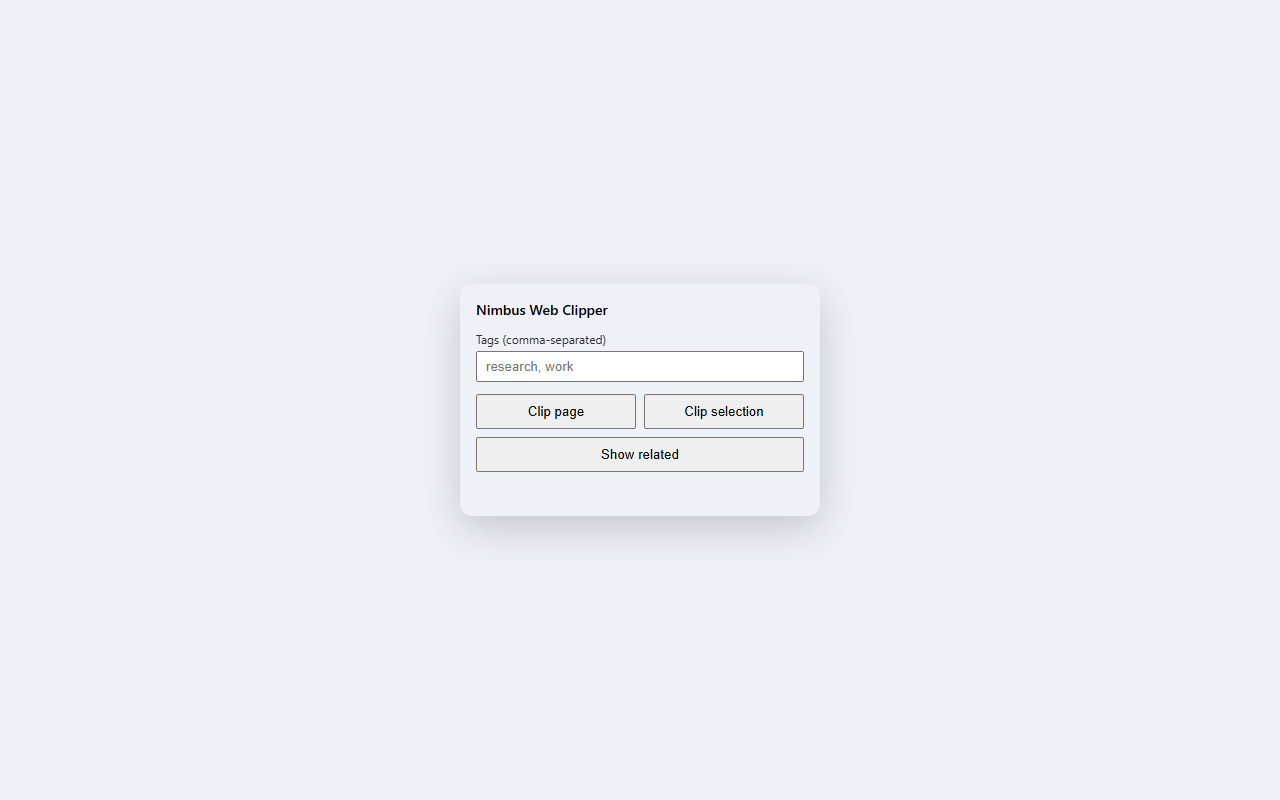
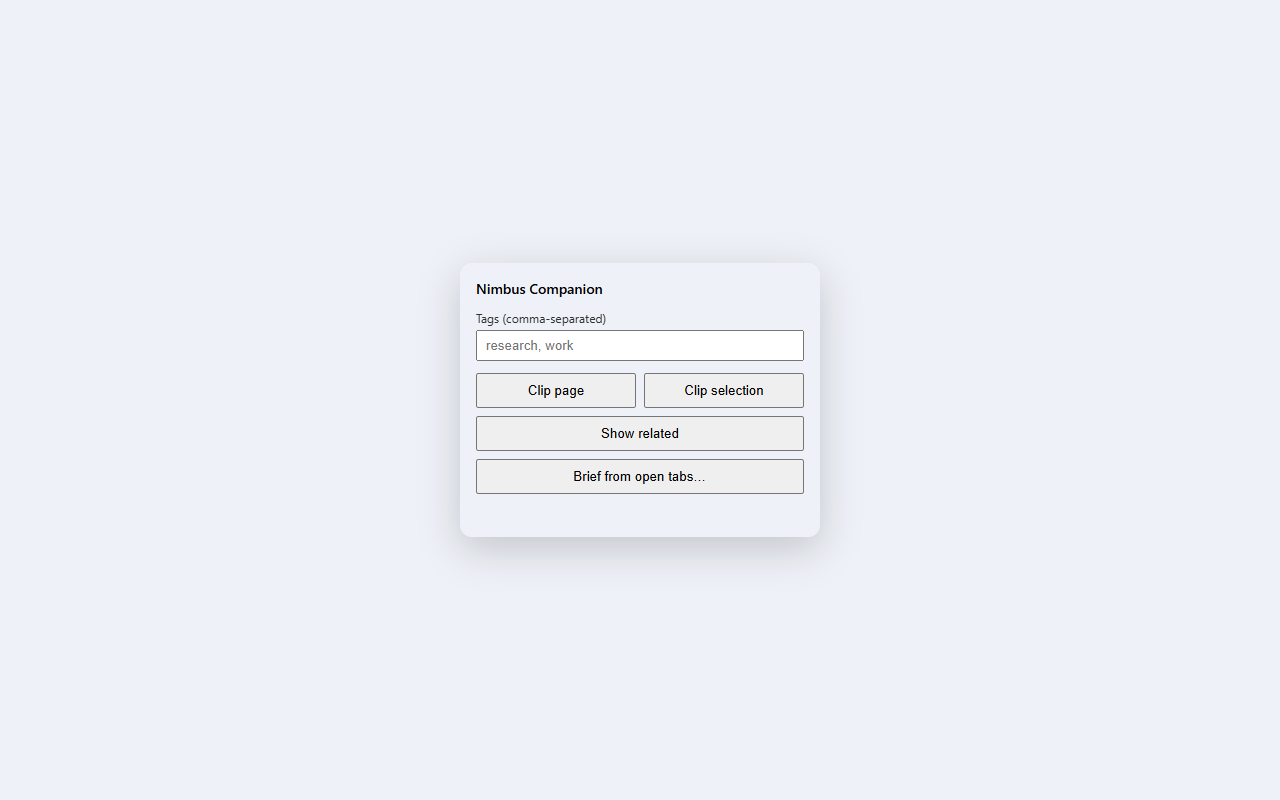
chore(brand): rename the extension to Nimbus Companion
"Nimbus Web Clipper" collided in every store search with Nimbus Web Inc's
unrelated "Web Clipper (Nimbus)" (~50k users). The new name keeps the tie to
the Nimbus gateway, leaves the clipper category, and matches what C1-C7 made
of the extension: clipping is one capability among several.

The rename is the manifest `name` + description, the popup/options headings,
the store listing + privacy policy, workflow/release titles, docs prose, and
regenerated promo tiles and store screenshots.

Deliberately unchanged: the Firefox gecko id (changing it orphans installs),
the Chrome item id, the repo slug, package name, Sonar key and zip names, and
"clip" as a verb. ROADMAP.md records the decision and the alternatives.

Changed region(s): [[0.375, 0.3438, 0.625, 0.5312], [0.375, 0.5312, 0.625, 0.6562]]

diff --git a/src/manifest/manifest.ts b/src/manifest/manifest.ts
@@ -78,10 +78,10 @@ export interface WebClipperManifest {
 export function composeManifest(target: BrowserTarget, version: string): WebClipperManifest {
   const base = {
     manifest_version: 3 as const,
-    name: "Nimbus Web Clipper",
+    name: "Nimbus Companion",
     version,
     description:
-      "Clip articles and selections from the browser into your local-first Nimbus index.",
+      "Bring your local-first Nimbus index to the page you're on — clip it, ask about it, see what Nimbus already knows.",
     // Minimal, capability-scoped: storage holds the paired bearer token; activeTab +
     // scripting let the popup capture the current page on user action (no broad host
     // access); alarms wakes the SW to drain the offline retry queue; contextMenus

diff --git a/src/options/options.html b/src/options/options.html
@@ -3,12 +3,12 @@
   <head>
     <meta charset="utf-8" />
     <meta name="viewport" content="width=device-width, initial-scale=1" />
-    <title>Nimbus Web Clipper — Options</title>
+    <title>Nimbus Companion — Options</title>
     <link rel="stylesheet" href="options.css" />
   </head>
   <body>
     <main class="options">
-      <h1>Nimbus Web Clipper</h1>
+      <h1>Nimbus Companion</h1>
 
       <section id="stage-connect" class="stage">
         <h2><span class="stage__num">1</span> Connect</h2>

diff --git a/test/unit/manifest.test.ts b/test/unit/manifest.test.ts
@@ -6,7 +6,7 @@ describe("composeManifest", () => {
     for (const target of BROWSER_TARGETS) {
       const m = composeManifest(target, "1.2.3");
       expect(m.manifest_version).toBe(3);
-      expect(m.name).toBe("Nimbus Web Clipper");
+      expect(m.name).toBe("Nimbus Companion");
       expect(m.version).toBe("1.2.3");
       // Loopback only — the extension never talks to a remote origin (I6).
       expect(m.host_permissions).toEqual(["http://127.0.0.1/*", "http://localhost/*"]);

diff --git a/scripts/gen-promo.ts b/scripts/gen-promo.ts
@@ -88,7 +88,7 @@ function html(s: TileSpec): string {
     <div class="tile">
       <div class="mark">${MARK}</div>
       <div class="copy">
-        <div class="title">Nimbus Web&nbsp;Clipper</div>
+        <div class="title">Nimbus Companion</div>
         <div class="tagline">Clip what you read into your private, local-first index.</div>
         <div class="chips">
           <span class="chip">Local-first</span>

diff --git a/src/popup/popup.html b/src/popup/popup.html
@@ -8,7 +8,7 @@
   </head>
   <body>
     <main class="popup">
-      <h1 class="popup__title">Nimbus Web Clipper</h1>
+      <h1 class="popup__title">Nimbus Companion</h1>
       <label class="popup__label" for="tags">Tags (comma-separated)</label>
       <input id="tags" class="popup__tags" type="text" placeholder="research, work" />
       <div class="popup__actions">

diff --git a/scripts/gen-icons.py b/scripts/gen-icons.py
@@ -1,5 +1,5 @@
 #!/usr/bin/env python3
-"""Generate the Nimbus Web Clipper extension icons from scratch.
+"""Generate the Nimbus Companion extension icons from scratch.
 
 No third-party deps: shapes are rasterized with 4x supersampling and encoded to
 PNG via the stdlib `zlib`. Concept: a light Nimbus cloud + a bookmark/clip tag on

diff --git a/ROADMAP.md b/ROADMAP.md
@@ -1,4 +1,4 @@
-# Nimbus Web Clipper — Roadmap
+# Nimbus Companion — Roadmap
 
 > **Status:** a direction, not a commitment. This roadmap is vision-first: it
 > states the end-state we're building toward, then breaks it into phases detailed
@@ -47,7 +47,7 @@ Most clippers are filing cabinets. You clip a page, it drops into a folder or a
 tag you never open again, and the value of the capture decays to zero the moment
 the tab closes. The clipper becomes a place things go to be forgotten.
 
-Nimbus Web Clipper is the opposite. A clip is not filed — it is **fed to a
+Nimbus Companion is the opposite. A clip is not filed — it is **fed to a
 private recall engine** that runs on your machine. What you save today makes what
 you read tomorrow smarter: the moment you land on a page, the extension can tell
 you *you've read three things about this before*, surface them in-context, and let
@@ -68,9 +68,9 @@ The clipper is a decent clipper. It is also in a fight it cannot win:
   AGPL licence, plus OCR, PDFs, mobile and an MCP server. Being a slightly
   better clipper than those two is not a plan.
 - **The name is already taken.** "Web Clipper (Nimbus)" by Nimbus Web Inc has
-  roughly 50,000 users, so we collide with it in every store search. What this
-  extension should be *called* after the reframe is an **open question**, not a
-  decision taken here.
+  roughly 50,000 users, so as "Nimbus Web Clipper" we collided with it in every
+  store search. That is why the extension is now **Nimbus Companion** — see
+  [The name](#the-name--decided-nimbus-companion) below.
 - **The cross-corpus idea isn't unique either.** SurfSense (~15.7k stars) has a
   comparable architecture — Gmail/Slack/Jira/Confluence/Linear/GitHub
   connectors and an MCP server. Execution and the local-first guarantee are the
@@ -81,39 +81,43 @@ agents over an index that already spans your pull requests, builds, issues and
 docs. No clipper has that. Reaching it from the page you are already on is the
 product.
 
-### The name — proposed, not decided
+### The name — decided: Nimbus Companion
 
-**Status: a proposal. This roadmap renames nothing.** It records the option and
-its constraints so the decision is taken deliberately rather than by drift.
+**Status: decided 2026-09-21.** The extension publishes as **Nimbus Companion**;
+until then it was "Nimbus Web Clipper".
 
-The collision is real and it is not ours to win by argument. "Web Clipper
+The collision was real and not ours to win by argument. "Web Clipper
 (Nimbus)" is published by **Nimbus Web Inc**, a Delaware company: roughly 50,000
 users, 154 ratings, 3.4 stars, last updated 2026-04-30. They hold the name in
-this category.
+this category, and the clash is with *Nimbus* sitting next to *Clipper*, not
+with one exact string — so the new name keeps the tie to the Nimbus gateway and
+leaves the clipper category. It also fits the reframe above: capture is one
+capability of the client, not the product.
 
-Under consideration: **"Nimbus — Change Impact Agent"** — the job, not the
-mechanism. That is the shipped precedent from the editor side, where
-[`nimbus-vscode`](https://github.com/nimbus-agent/nimbus-vscode) publishes as
-*Nimbus — On-Call & Incident Agent*; two surfaces of one gateway should read as
-siblings. Alternatives considered and not discarded: "PR & Build Context Agent",
-"Merge Readiness Agent", "Blast Radius".
+Considered and not taken: "Nimbus — Change Impact Agent" (the job-not-mechanism
+pattern [`nimbus-vscode`](https://github.com/nimbus-agent/nimbus-vscode) uses as
+*Nimbus — On-Call & Incident Agent*), "PR & Build Context Agent", "Merge
+Readiness Agent", "Blast Radius".
 
-Two things constrain any rename:
+What the rename is, and what it deliberately is not:
 
+- **It is the `name`, the UI headings and the store-listing copy — nothing
+  deeper.** "Clip" survives as a verb ("Clip to Nimbus", the clip commands, the
+  gateway's `nimbus clip pair` and `/v1/clips`): those name an action, not the
+  product.
 - **`FIREFOX_ADDON_ID` must not change.** `src/manifest/manifest.ts:17` pins it
   to the literal `web-clipper@nimbus-agent.dev`, and Firefox keys an install to
-  that gecko id — changing it orphans every existing Firefox install. A rename
-  is therefore a `name` change plus store-listing copy, and nothing deeper: the
-  Chrome item id is derived from the publisher's public key, not from `name`, so
-  it survives a rename untouched.
-- **Sequencing, re-opened: Nimbus#1006 closed 2026-08-11.** This bullet's
-  premise was that relaunching under a new name while **Nimbus#1006** was live
-  (the store listings claim clips stay local while `web_clip` routed to OpenAI
-  embeddings when a key was set) would *increase* exposure: a fresh listing
-  invites fresh scrutiny of a privacy claim we could not back. That premise no
-  longer holds — #1006 is closed. Whether the sequencing argument still stands
-  on some other ground, or the rename is now unblocked, needs its own re-read.
-  **Not decided here:** the rename is not this slice's call to make.
+  that gecko id — changing it orphans every existing Firefox install. The Chrome
+  item id is derived from the publisher's public key, not from `name`, so it
+  survives a rename untouched.
+- **The repo slug, package name, Sonar key and zip names stay
+  `nimbus-web-clipper`.** None of them is visible on a store page; renaming the
+  repo is separate outward-facing work.
+- **Sequencing is no longer a blocker.** The earlier worry — relaunching under a
+  new name while **Nimbus#1006** was live (listings claimed clips stay local
+  while `web_clip` routed to OpenAI embeddings when a key was set) would invite
+  scrutiny of a privacy claim we could not back — lapsed when #1006 closed on
+  2026-08-11.
 
 ### Why this is credible, not aspirational
 

diff --git a/store/listing.md b/store/listing.md
@@ -1,11 +1,11 @@
-# Store Listing Copy — Nimbus Web Clipper
+# Store Listing Copy — Nimbus Companion
 
 Single source of truth for the Chrome Web Store and AMO listing fields. Paste
 these verbatim into each dashboard; keep this file in sync with any dashboard edit.
 
 ## Name
 
-Nimbus Web Clipper
+Nimbus Companion
 
 ## Short summary
 
@@ -28,7 +28,7 @@ surfacing what that index already holds about the page.
 Save what you read into your private, local-first Nimbus index — straight from
 the browser.
 
-Nimbus Web Clipper clips the readable article or your current text selection into
+Nimbus Companion clips the readable article or your current text selection into
 Nimbus, where it becomes searchable alongside your Drive files, email, and
 bookmarks. It also works the other way round: on a page Nimbus already knows — a
 pull request, a build, an issue — it recognises where you are, finds the matching

diff --git a/store/publishing.md b/store/publishing.md
@@ -35,6 +35,14 @@ Build the artifacts locally (`bun run build && bun run package`), then:
 The first submission of each store must be done by hand; every release after that
 is automated.
 
+**Renaming the extension.** The automated upload carries the manifest `name`, so
+the Chrome listing title follows the next release on its own. Everything else on
+a listing is dashboard-only: the AMO listing name, and both stores' summary and
+description, must be re-pasted by hand from [`listing.md`](./listing.md). The zip
+names, the gecko id (`web-clipper@nimbus-agent.dev`) and the store URLs' slugs
+keep the original `nimbus-web-clipper` spelling on purpose — they are identifiers,
+not branding, and the gecko id can never change without orphaning installs.
+
 ### 3. Credentials
 
 - **Chrome (Google OAuth):** follow

diff --git a/CHANGELOG.md b/CHANGELOG.md
@@ -8,6 +8,16 @@ Releases are tag-driven (`vX.Y.Z`); see [README](./README.md#releasing) and `pub
 
 ## [Unreleased]
 
+### Changed
+
+- **Renamed to Nimbus Companion.** The extension was "Nimbus Web Clipper", which
+  collided in every store search with Nimbus Web Inc's unrelated "Web Clipper
+  (Nimbus)". The new name also says what the extension became: it recognises the
+  page you are on and runs your gateway's agents against it, and clipping is one
+  capability among several. Nothing else moves — the Firefox add-on id, the
+  Chrome item id, your pairing and your settings are all unchanged, so an
+  installed copy simply updates under the new name.
+
 ### Added
 
 - **The deploy-readiness bind form stops guessing.** It now asks the gateway

diff --git a/.claude/commands/clipper-mv3-client.md b/.claude/commands/clipper-mv3-client.md
@@ -1,7 +1,7 @@
 ---
 name: clipper-mv3-client
 description: >
-  The non-obvious mechanics of the Nimbus Web Clipper: which gates prove what and which
+  The non-obvious mechanics of the Nimbus Companion: which gates prove what and which
   pass while proving nothing, the coupled sites nothing enforces, the MV3 traps that
   exist only as a comment inside one file, and which half of the pairing/token contract
   belongs to the gateway repo. Use when asked "what should I run before pushing", "why
@@ -10,7 +10,7 @@ description: >
   `src/manifest/manifest.ts`, `esbuild.mjs`, `scripts/`, or `.github/workflows/`.
 ---
 
-# Nimbus Web Clipper — the MV3 client
+# Nimbus Companion — the MV3 client
 
 ## What this skill is not
 

diff --git a/CLAUDE.md b/CLAUDE.md
@@ -1,6 +1,12 @@
-# Nimbus Web Clipper — Claude Code Context
+# Nimbus Companion — Claude Code Context
 
 ## What this is
+
+**Nimbus Companion** is the published name (it was "Nimbus Web Clipper" until a
+store-search collision with Nimbus Web Inc's "Web Clipper (Nimbus)" forced a
+rename — see `ROADMAP.md` § The name). The repo slug, package name, Sonar key,
+zip names and the Firefox gecko id keep the old `nimbus-web-clipper` /
+`web-clipper@…` spelling **on purpose**: they are identifiers, not branding.
 
 `nimbus-web-clipper` is a Chrome + Firefox **MV3 browser extension** that clips
 web pages (readable article or selection) into the user's local-first
